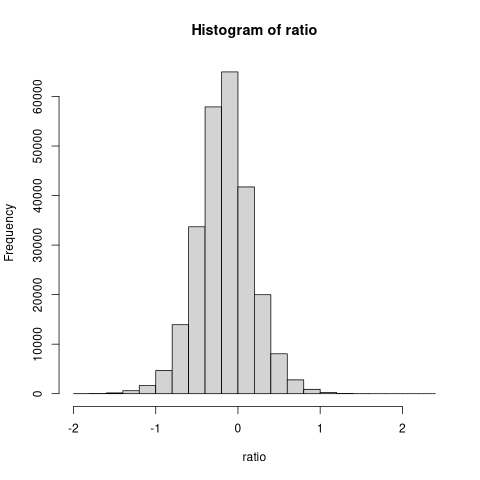
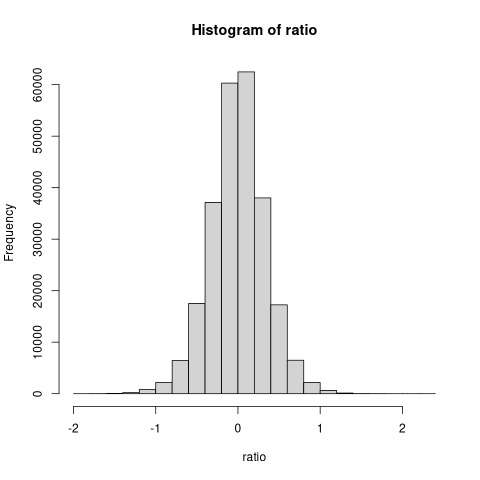
update readme

diff --git a/README.md b/README.md
@@ -88,14 +88,14 @@ zero.
 
 ![](man/figures/scale-hist.png)
 
-The median log-10 ratio is -0.162, or a ratio of 0.689, implying that
-the observed times are slightly over 30% *faster* than the estimated
+The median log-10 ratio is -0.003, or a ratio of 1.008, implying that
+the observed times are only ever so slightly slower than the estimated
 times.
 
 ### Correlation
 
 The estmiated and observed travel times are highly correlated, with an
-R-squared value of around 0.67, or 0.942 on a logarithmic scale. These
+R-squared value of around 0.64, or 0.933 on a logarithmic scale. These
 values compare with equivalent values generated for the paper,
 [*Predicting commuter flows in spatial networks using a radiation model
 based on temporal ranges*](https://www.nature.com/articles/ncomms6347),
